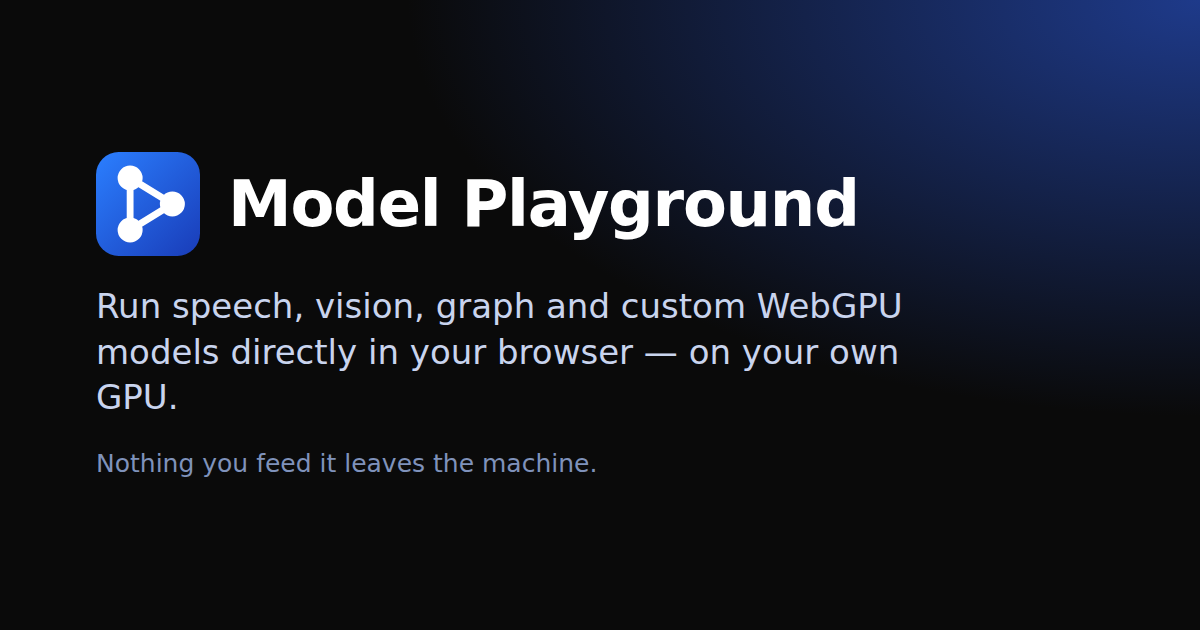
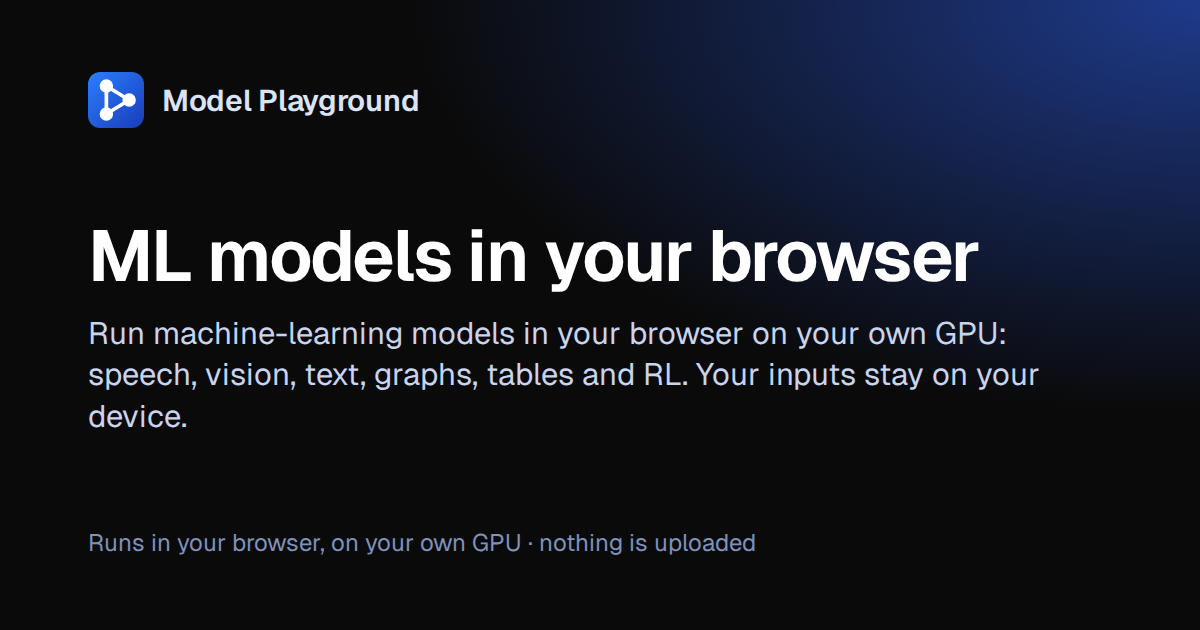
SEO: a share card per page (#72)
Every page unfurled as the same og-image.png. scripts/generate-og-cards.mjs
(npm run og / just fe-og) renders a 1200x630 JPEG per SITE_PAGES entry
under public/og/ — heading, category or Notes, description — from the same
strings as the page head, through Vite's module runner and the Playwright
Chromium the E2E suite installs. ~56 KB each. The site card moves here
from generate-icons.mjs and loses its stale copy. renderPageHtml and
syncHead point og:image/twitter:image at the page's card; a test fails
naming any page without one, or a card left over for a removed page.

diff --git a/frontend/src/seo/render.test.ts b/frontend/src/seo/render.test.ts
@@ -1,4 +1,4 @@
-import { readFileSync } from "node:fs";
+import { existsSync, readdirSync, readFileSync } from "node:fs";
 import { join } from "node:path";
 import { describe, expect, it } from "vitest";
 
@@ -10,6 +10,8 @@ import { PAGE_COPY } from "./copy";
 import { HOME_LEAD, HOME_PRIVACY, pageForPath, SITE_PAGES } from "./pages";
 import {
   absolutiseImages,
+  OG_IMAGE_PATH,
+  ogImagePath,
   renderNotFoundHtml,
   renderPageHtml,
   renderRobots,
@@ -59,8 +61,8 @@ describe("renderPageHtml", () => {
       expect(meta(doc, 'property="og:description"')).toBe(page.description);
       expect(meta(doc, 'property="og:url"')).toBe(url);
       expect(meta(doc, 'name="twitter:title"')).toBe(page.title);
-      expect(meta(doc, 'property="og:image"')).toBe(`${ORIGIN}/og-image.png`);
-      expect(meta(doc, 'name="twitter:image"')).toBe(`${ORIGIN}/og-image.png`);
+      expect(meta(doc, 'property="og:image"')).toBe(`${ORIGIN}${ogImagePath(path)}`);
+      expect(meta(doc, 'name="twitter:image"')).toBe(`${ORIGIN}${ogImagePath(path)}`);
       expect(doc.querySelectorAll('link[rel="canonical"]')).toHaveLength(1);
       expect(doc.querySelector<HTMLLinkElement>('link[rel="canonical"]')?.getAttribute("href")).toBe(url);
       expect(doc.querySelectorAll('meta[name="description"]')).toHaveLength(1);
@@ -274,6 +276,30 @@ describe("notes", () => {
       parse(renderPageHtml(TEMPLATE, pageForPath(path)!, ORIGIN, PAGE_COPY[path]));
     expect(html("/translation").querySelector('#root a[href="/notes/ort-web-missing-required-scale"]')).not.toBeNull();
     expect(html("/vad").querySelector('#root a[href^="/notes/"]')).toBeNull();
+  });
+});
+
+// #72: a link to /depth and a link to /translation used to unfurl as the same
+// card. Each page now has its own, generated by `npm run og`.
+describe("share cards", () => {
+  it("names a card per page, nested paths flattened", () => {
+    expect(ogImagePath("/depth")).toBe("/og/depth.jpg");
+    expect(ogImagePath("/notes/webgpu-shader-f16")).toBe("/og/notes-webgpu-shader-f16.jpg");
+  });
+
+  it.each(SITE_PAGES.map((p) => p.path))("has a generated card for %s (run `npm run og`)", (path) => {
+    expect(existsSync(join(__dirname, "../../public", ogImagePath(path)))).toBe(true);
+  });
+
+  it("has no card left over for a page that no longer exists", () => {
+    const expected = new Set(SITE_PAGES.map((p) => ogImagePath(p.path).slice("/og/".length)));
+    const stale = readdirSync(join(__dirname, "../../public/og")).filter((f) => !expected.has(f));
+    expect(stale, "re-run `npm run og`").toEqual([]);
+  });
+
+  it("keeps the site-wide card for a path with no page", () => {
+    const doc = parse(renderNotFoundHtml(TEMPLATE, ORIGIN));
+    expect(meta(doc, 'property="og:image"')).toBe(`${ORIGIN}${OG_IMAGE_PATH}`);
   });
 });
 

diff --git a/frontend/src/seo/render.ts b/frontend/src/seo/render.ts
@@ -33,7 +33,18 @@ import { parseInline } from "../notes/inline";
 import { NOTES, NOTES_PATH, notePath, notesFor } from "../notes/meta";
 import type { NoteBlock } from "../notes/types";
 
-const OG_IMAGE_PATH = "/og-image.png";
+/** The site-wide share card: for a path with no page of its own (sign-in, a 404). */
+export const OG_IMAGE_PATH = "/og-image.png";
+
+/**
+ * A page's own share card (#72): `/depth` → `/og/depth.jpg`, `/notes/x` →
+ * `/og/notes-x.jpg`. One per `SITE_PAGES` entry, rendered by
+ * `scripts/generate-og-cards.mjs` and committed under `public/og/`; a test
+ * fails, naming the page, when one is missing.
+ */
+export function ogImagePath(path: string): string {
+  return `/og/${path.replace(/^\//, "").replace(/\//g, "-")}.jpg`;
+}
 
 export function escapeHtml(text: string): string {
   return text
@@ -58,8 +69,8 @@ function setMeta(html: string, attr: string, key: string, value: string): string
 }
 
 /** Point `og:image` and `twitter:image` at an absolute URL: the OG spec needs one. */
-export function absolutiseImages(html: string, origin: string): string {
-  const image = canonicalUrl(OG_IMAGE_PATH, origin);
+export function absolutiseImages(html: string, origin: string, imagePath = OG_IMAGE_PATH): string {
+  const image = canonicalUrl(imagePath, origin);
   return setMeta(setMeta(html, "property", "og:image", image), "name", "twitter:image", image);
 }
 
@@ -351,7 +362,7 @@ export function renderPageHtml(
   html = setMeta(html, "property", "og:url", url);
   html = setMeta(html, "name", "twitter:title", page.title);
   html = setMeta(html, "name", "twitter:description", page.description);
-  html = absolutiseImages(html, origin);
+  html = absolutiseImages(html, origin, ogImagePath(page.path));
   const head = [
     `<link rel="canonical" href="${escapeHtml(url)}" />`,
     `<script type="application/ld+json" id="structured-data">${scriptJson(structuredData(page, origin))}</script>`,

diff --git a/frontend/src/hooks/useDocumentHead.ts b/frontend/src/hooks/useDocumentHead.ts
@@ -4,7 +4,7 @@ import { useRouterState } from "@tanstack/react-router";
 import { titleForPath } from "@/lib/documentTitle";
 import { SITE_DESCRIPTION, SITE_URL } from "@/lib/site";
 import { canonicalUrl, pageForPath } from "@/seo/pages";
-import { scriptJson, structuredData } from "@/seo/render";
+import { OG_IMAGE_PATH, ogImagePath, scriptJson, structuredData } from "@/seo/render";
 
 /**
  * The origin the build wrote its canonicals against. The build makes `og:image`
@@ -51,6 +51,11 @@ export function syncHead(pathname: string, doc: Document = document): void {
   setMeta(doc, "property", "og:description", description);
   setMeta(doc, "name", "twitter:title", title);
   setMeta(doc, "name", "twitter:description", description);
+  // Each page's own card (#72), the site's for anything else. The origin was
+  // read off this tag above, so rewriting it keeps the same origin.
+  const image = canonicalUrl(page ? ogImagePath(page.path) : OG_IMAGE_PATH, origin);
+  setMeta(doc, "property", "og:image", image);
+  setMeta(doc, "name", "twitter:image", image);
 
   const canonical = doc.head.querySelector<HTMLLinkElement>('link[rel="canonical"]');
   const ogUrl = doc.head.querySelector('meta[property="og:url"]');

diff --git a/frontend/e2e/specs/branding.spec.ts b/frontend/e2e/specs/branding.spec.ts
@@ -96,7 +96,9 @@ test.describe("branding", () => {
     const ogImage = await page
       .locator('meta[property="og:image"]')
       .getAttribute("content");
-    expect(ogImage).toMatch(/^https:\/\/[^/]+\/og-image\.png$/);
+    // The page's own card (#72) on the static build's `/home`, the site's
+    // card on the dev server's landing page, which is not an indexable page.
+    expect(ogImage).toMatch(/^https:\/\/[^/]+\/(og-image\.png|og\/[a-z0-9-]+\.jpg)$/);
     const local = new URL(ogImage!).pathname;
     expect((await page.request.get(local)).status()).toBe(200);
   });

diff --git a/frontend/src/hooks/useDocumentHead.test.ts b/frontend/src/hooks/useDocumentHead.test.ts
@@ -37,6 +37,8 @@ describe("syncHead", () => {
     expect(meta(doc, 'name="description"')).toBe(depth.description);
     expect(meta(doc, 'property="og:title"')).toBe(depth.title);
     expect(meta(doc, 'property="og:url"')).toBe(`${ORIGIN}/depth`);
+    expect(meta(doc, 'property="og:image"')).toBe(`${ORIGIN}/og/depth.jpg`);
+    expect(meta(doc, 'name="twitter:image"')).toBe(`${ORIGIN}/og/depth.jpg`);
     expect(canonical(doc)).toBe(`${ORIGIN}/depth`);
     expect(JSON.parse(doc.getElementById("structured-data")!.textContent!)).toEqual(
       structuredData(depth, ORIGIN),
